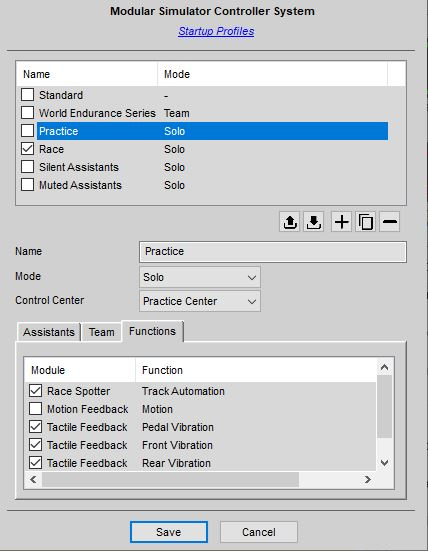
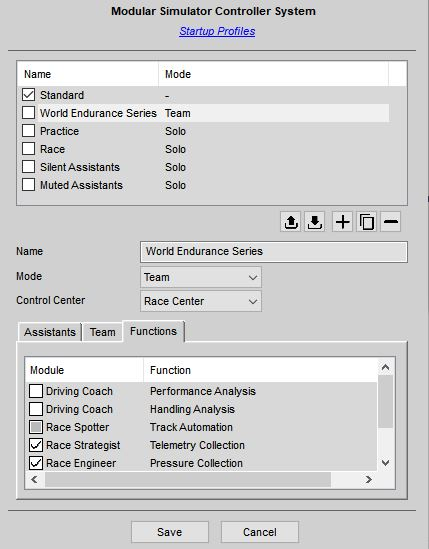
More Features in Startup Profiles

diff --git a/Docs/Using Simulator Controller.md b/Docs/Using Simulator Controller.md
@@ -100,7 +100,7 @@ Good to know: If you hold down the Control key when clicking on the "Download" b
 
 You can choose whether a profile will start a solo or a team session and you can decide whether you want to run the "Practice Center" or the "Race Center" automatically during startup. Please note, that running the "Race Center" is only useful in a team session.
 
-You can furthermore choose, which Assistants will be available and whether they will talk and listen to you.
+You can choose furthermore, which Assistants will be available and whether they will talk and listen to you.
 
 | Setting  | Description |
 | -------- | ----------- |
@@ -122,6 +122,8 @@ If you are the team manager, you can open up the [team configuration editor](htt
 On the last tab you can select or deselect several functions provided by the different plugins of Simulator Controller. What is available here, totally depends on your overall configuration.
 
 ![](https://github.com/SeriousOldMan/Simulator-Controller/blob/main/Docs/Images/Startup%20Profiles%203.JPG)
+
+The checkbox for each function has three states - selected, deselected and indeterminated. The later means that the setting for this function will be used that has been defined elsewhere in your configuration (for example, in the [settings](https://github.com/SeriousOldMan/Simulator-Controller/wiki/Race-Settings) in the "Session Database").
 
 Finally, if you are ready to start, choose the profile you want to start with and close the startup profiles editor. Then click again on the green triangle to start Simulator Controller with the selected profile. As a shortcut, you can hold down the Control key while saving and closing the startup profiles editor, which will trigger the startup process automatically.
 
